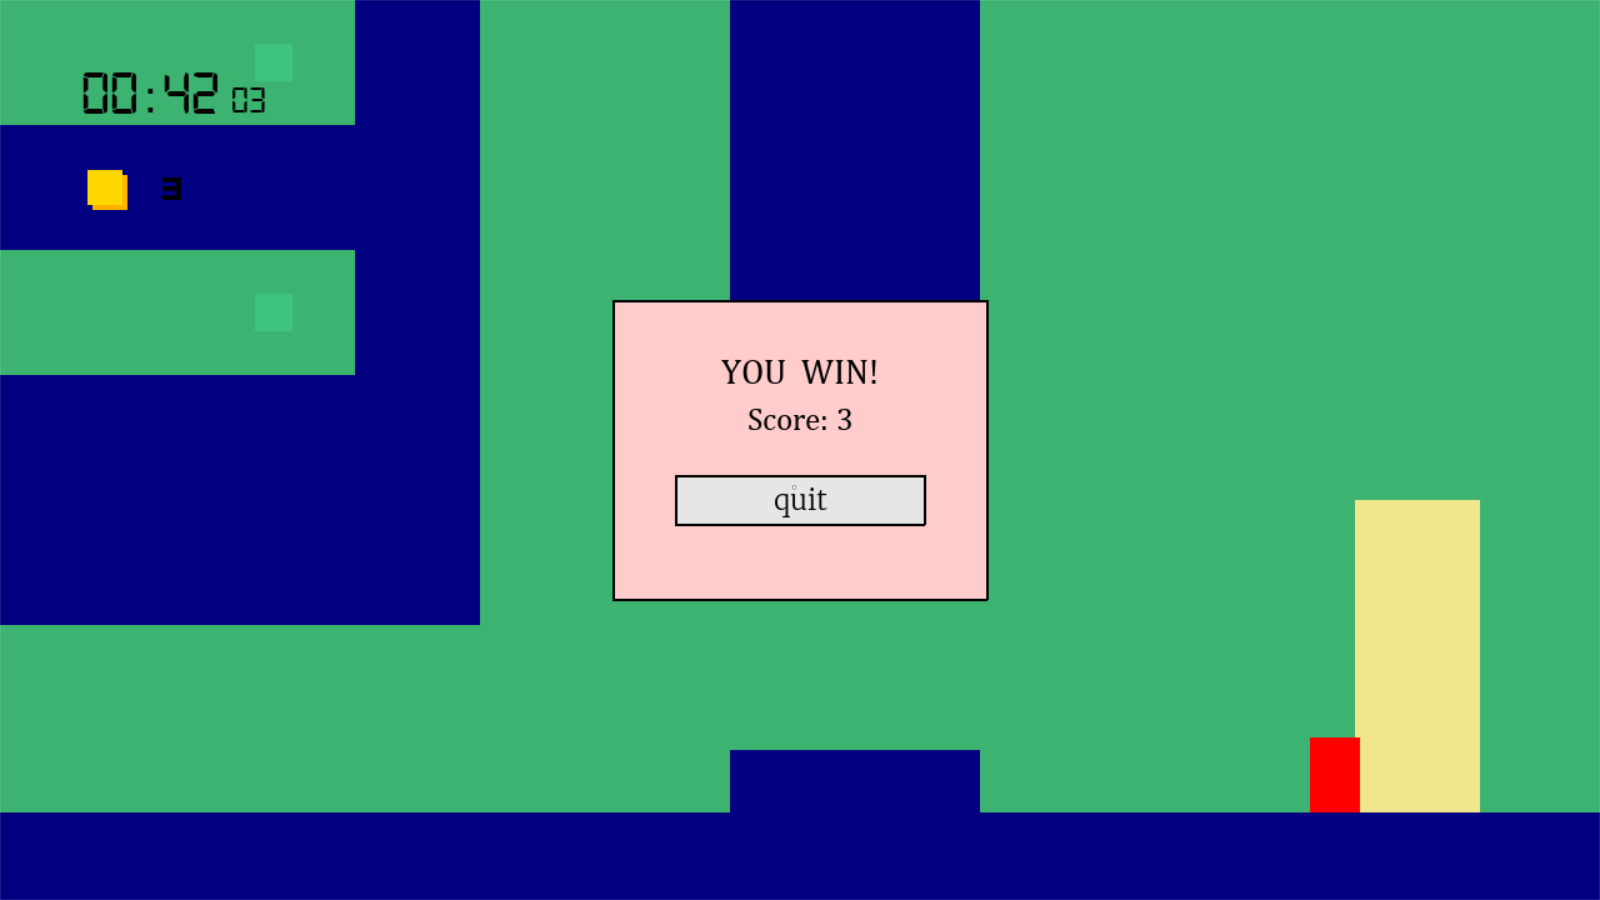
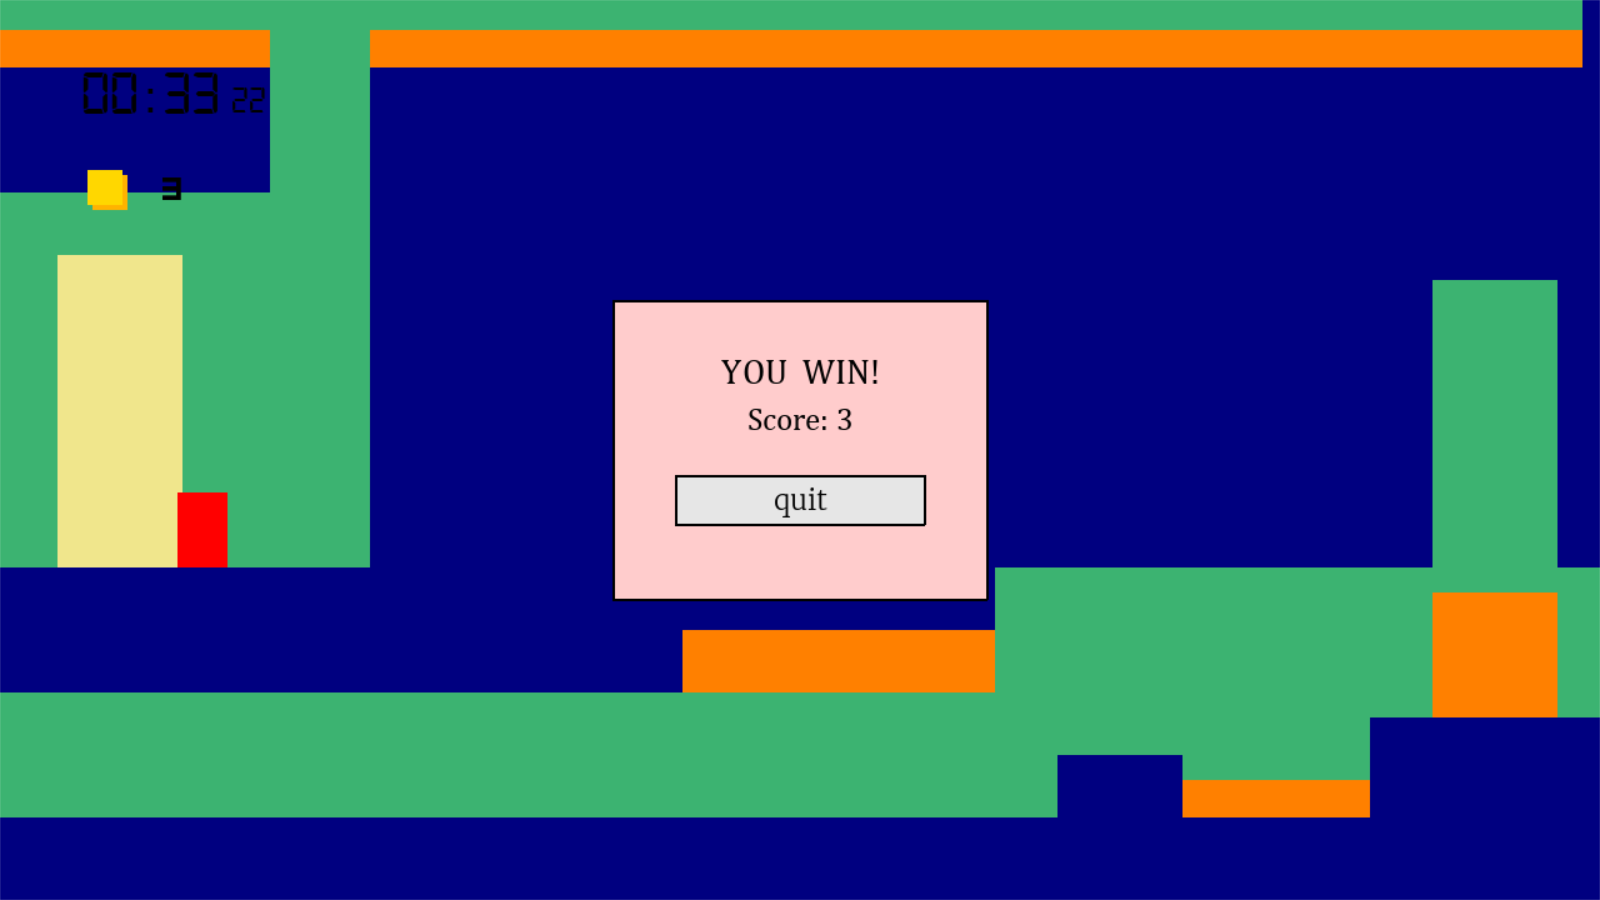
Port and more images
Adds setting file that defines the port that will be used;
Adds more pictures to the platformer game;

diff --git a/index.js b/index.js
@@ -1,7 +1,10 @@
 const express = require("express");
+const { networkInterfaces } = require('os');
 const process = require("process");
 const path = require("path");
 const fs = require("fs");
+
+const SETTINGS = JSON.parse(fs.readFileSync("settings.json", {encoding: "utf8"}));
 
 // Change working directory to /public
 process.chdir(path.join(__dirname, "public"));
@@ -9,7 +12,24 @@ process.chdir(path.join(__dirname, "public"));
 // Set up the server
 const app = express();
 app.use(express.static(path.join(__dirname, "public")));
-app.listen("8080");
+app.listen(SETTINGS.port);
+
+// obtain IPv4
+const nets = networkInterfaces();
+const results = {}
+
+for (const name of Object.keys(nets)) {
+    for (const net of nets[name]) {
+        // Skip over non-IPv4 and internal (i.e. 127.0.0.1) addresses
+        if (net.family === 'IPv4' && !net.internal) {
+            if (!results[name]) {
+                results[name] = [];
+            }
+            results[name].push(net.address);
+        }
+    }
+}
+console.log(results);
 
 // file system
 class AppManager {
@@ -56,6 +76,10 @@ app.get("/games/search", (req, res) => {
 });
 
 app.get("/games/app/:gameId", (req, res) => {
+    if (!appManager.getAppList().includes(req.params.gameId)) {
+        res.send("Game does not exist!!!");
+        return;
+    }
     res.render(path.join(__dirname, "/public/views/app/index.ejs"), data = {
         info: appManager.getInfo(req.params.gameId),
         numImgs: appManager.getNumImgs(req.params.gameId),

diff --git a/public/views/games/index.html b/public/views/games/index.html
@@ -5,6 +5,7 @@
 <link rel="stylesheet/less" type="text/css" href="/views/public/public.less">
 <link rel="stylesheet/less" type="text/css" href="/views/public/header.less">
 <link rel="stylesheet/less" type="text/css" href="/views/games/style.less">
+<link rel="icon" href="/resources/icons/PDS_icon_dark.svg">
 <script src="/views/public/less.js"></script>
 <script src="/views/games/script.js"></script>
 </head>

diff --git a/public/views/home/index.html b/public/views/home/index.html
@@ -5,6 +5,7 @@
 <link rel="stylesheet/less" type="text/css" href="/views/public/public.less">
 <link rel="stylesheet/less" type="text/css" href="/views/public/header.less">
 <link rel="stylesheet/less" type="text/css" href="/views/home/style.less">
+<link rel="icon" href="/resources/icons/PDS_icon_dark.svg">
 <script src="/views/public/less.js"></script>
 </head>
 
